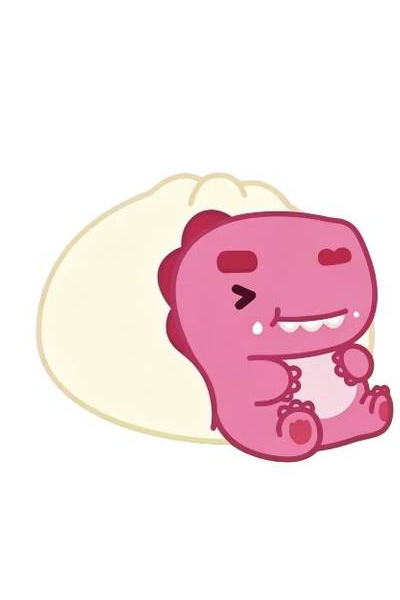
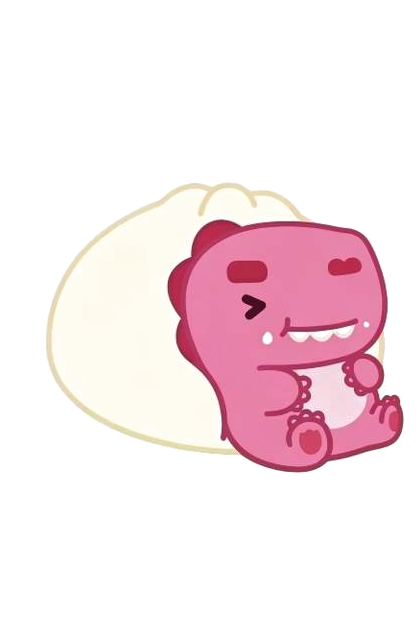
v3.2.0: 透明背景素龙 + 标题改名 + 更粉色调 + 饼图单条修复
- 素龙图片背景改为透明
- 标题'素龙记账'全部改为'记账本'
- 首页素龙调大上移，与标题行对齐
- 计划页两只素龙使用不同图片
- 修复只有一笔支出时饼图不显示的 bug
- 整体色调更粉，减少偏紫

diff --git a/index.html b/index.html
@@ -5,18 +5,18 @@
     <meta name="viewport" content="width=device-width, initial-scale=1.0, maximum-scale=1.0, user-scalable=no, viewport-fit=cover">
     <meta name="apple-mobile-web-app-capable" content="yes">
     <meta name="apple-mobile-web-app-status-bar-style" content="default">
-    <meta name="apple-mobile-web-app-title" content="素龙记账">
-    <meta name="theme-color" content="#d4a5a5">
-    <title>素龙记账</title>
+    <meta name="apple-mobile-web-app-title" content="记账本">
+    <meta name="theme-color" content="#e8a0a0">
+    <title>记账本</title>
     <style>
         *{margin:0;padding:0;box-sizing:border-box;-webkit-tap-highlight-color:transparent}
         :root{
-            --morandi-pink:#d4a5a5;--morandi-pink-deep:#b88a8a;--morandi-pink-light:#e8d0d0;
-            --morandi-green:#9bb8a6;--morandi-green-deep:#7d9e89;
-            --morandi-coral:#d4887a;--morandi-coral-deep:#b86f62;
-            --morandi-blue:#b8c5d6;--morandi-yellow:#e8d5a3;--morandi-purple:#c5b8d6;
-            --bg:#f7f2ef;--card-bg:#ffffff;--text-primary:#5a5551;--text-secondary:#8a8581;
-            --text-hint:#b5b0ab;--border:#ede8e5;
+            --morandi-pink:#e8a0a0;--morandi-pink-deep:#d47f7f;--morandi-pink-light:#f5d5d5;
+            --morandi-green:#a8c9a8;--morandi-green-deep:#8ab08a;
+            --morandi-coral:#e8948c;--morandi-coral-deep:#c97a72;
+            --morandi-blue:#e2c4d3;--morandi-yellow:#e8d5a3;--morandi-purple:#e8c4d1;
+            --bg:#fef6f6;--card-bg:#ffffff;--text-primary:#5d4f4f;--text-secondary:#9e8080;
+            --text-hint:#c2a8a8;--border:#f5e5e5;
             --shadow:0 4px 20px rgba(90,85,81,0.06);--radius:20px;
             --safe-top:env(safe-area-inset-top,0px);--safe-bottom:env(safe-area-inset-bottom,0px);
         }
@@ -27,7 +27,7 @@
         .header h1{font-size:22px;font-weight:700;margin-bottom:6px;position:relative;z-index:2}
         .lucky-quote{font-size:13px;opacity:0.92;position:relative;z-index:2;font-weight:500;display:flex;align-items:center;gap:6px;flex-wrap:wrap;max-width:90%}
         .lucky-quote .star{font-size:14px}
-        .dino-wrap{position:absolute;right:16px;bottom:12px;width:78px;height:78px;z-index:2;opacity:0.95}
+        .dino-wrap{position:absolute;right:10px;top:calc(16px + var(--safe-top));width:90px;height:90px;z-index:2;opacity:0.98}
         .month-selector{display:flex;align-items:center;justify-content:space-between;margin-top:18px;background:rgba(255,255,255,0.18);border-radius:14px;padding:10px 16px;position:relative;z-index:2;backdrop-filter:blur(4px)}
         .month-selector button{background:rgba(255,255,255,0.22);border:none;color:white;width:34px;height:34px;border-radius:50%;font-size:18px;cursor:pointer;display:flex;align-items:center;justify-content:center;transition:all 0.2s}
         .month-selector button:active{background:rgba(255,255,255,0.35);transform:scale(0.92)}
@@ -189,7 +189,7 @@
 
 <div id="page-home" class="page active">
     <div class="header">
-        <h1>🦖 素龙记账</h1>
+        <h1>📖 记账本</h1>
         <div class="lucky-quote" id="luckyQuote"><span class="star">✨</span><span id="quoteText">今日好运加载中...</span></div>
         <div class="dino-wrap" id="headerDino"></div>
         <div class="month-selector">
@@ -224,7 +224,7 @@
 
 <div id="page-plans" class="page">
     <div class="header">
-        <h1>🎯 存钱计划</h1>
+        <h1>🐷 存钱计划</h1>
         <div class="lucky-quote"><span class="star">🌟</span>慢慢存钱，慢慢变富</div>
         <div class="dino-wrap" id="planHeaderDino"></div>
     </div>
@@ -281,7 +281,7 @@
         </div>
         <div style="text-align:center;padding:24px;color:var(--text-hint);font-size:12px">
             <div id="footerDino" style="width:80px;height:80px;margin:0 auto 12px;opacity:0.95"></div>
-            素龙记账 · 愿你天天有钱花
+            记账本 · 愿你天天有钱花
         </div>
     </div>
 </div>
@@ -393,11 +393,12 @@ const SVG_ICONS = {
     cloud: '<svg viewBox="0 0 48 48" fill="none"><path d="M12 32c-3 0-6-2-6-6s3-6 6-6c0-4 3-7 8-7 4 0 7 2 8 6 1-1 2-1 3-1 4 0 7 3 7 7s-3 7-7 7H12z" fill="#b8c5d6" stroke="#5a5551" stroke-width="2" stroke-linejoin="round"/><circle cx="18" cy="28" r="1.5" fill="#5a5551"/><circle cx="26" cy="28" r="1.5" fill="#5a5551"/><path d="M16 32c2 1 4 1 6 0M24 32c2 1 4 1 6 0" stroke="#5a5551" stroke-width="1.5" stroke-linecap="round" fill="none"/><path d="M14 38l-1 3M20 38l-1 3M26 38v3M32 38l1 3" stroke="#b8c5d6" stroke-width="2" stroke-linecap="round"/></svg>',
     wand: '<svg viewBox="0 0 48 48" fill="none"><path d="M10 38L30 18l4 4L14 42l-4-4z" fill="#e8d5a3" stroke="#5a5551" stroke-width="2" stroke-linejoin="round"/><circle cx="32" cy="16" r="5" fill="#d4a5a5" stroke="#5a5551" stroke-width="2"/><path d="M32 6v3M32 23v3M22 16h3M39 16h3M25 9l2 2M37 23l2 2M39 9l-2 2M25 23l-2 2" stroke="#c5b8d6" stroke-width="2" stroke-linecap="round"/><circle cx="28" cy="12" r="1" fill="#e8d5a3"/><circle cx="38" cy="20" r="1" fill="#e8d5a3"/></svg>',
     // 素龙真实素材（从用户提供的图片裁剪）
+    dino: '<img src="assets/sulong_chef.png" alt="素龙" style="width:100%;height:100%;object-fit:contain;filter:drop-shadow(0 3px 6px rgba(237,107,138,0.25))">',
     dinoHappy: '<img src="assets/sulong_wave.png" alt="素龙" style="width:100%;height:100%;object-fit:contain;filter:drop-shadow(0 3px 6px rgba(237,107,138,0.25))">',
     dinoPiggy: '<img src="assets/sulong_bao.png" alt="素龙" style="width:100%;height:100%;object-fit:contain;filter:drop-shadow(0 3px 6px rgba(237,107,138,0.25))">',
     dinoSleep: '<img src="assets/sulong_drink.png" alt="素龙" style="width:100%;height:100%;object-fit:contain;filter:drop-shadow(0 3px 6px rgba(237,107,138,0.25))">',
     dinoEmpty: '<img src="assets/sulong_plane.png" alt="素龙" style="width:100%;height:100%;object-fit:contain;opacity:0.9">',
-    dino2: '<img src="assets/sulong_bao.png" alt="素龙" style="width:100%;height:100%;object-fit:contain;filter:drop-shadow(0 3px 6px rgba(237,107,138,0.25))">',
+    dino2: '<img src="assets/sulong_a1.png" alt="素龙" style="width:100%;height:100%;object-fit:contain;filter:drop-shadow(0 3px 6px rgba(237,107,138,0.25))">',
 };
 
 // ============ 好运语录（每日轮换）============
@@ -483,7 +484,7 @@ function getCategoryIcon(name, type) {
 }
 
 // ============ 莫兰迪色板（饼图用）============
-const MORANDI_COLORS = ['#d4a5a5', '#9bb8a6', '#d4887a', '#b8c5d6', '#e8d5a3', '#c5b8d6', '#b88a8a', '#7d9e89', '#a3b8d4', '#d4b8a5'];
+const MORANDI_COLORS = ['#e8a0a0', '#f0c4c4', '#e8948c', '#f5d5a5', '#f0d0a8', '#e8c4d1', '#d4a0a0', '#b8d4b8', '#f0b8a8', '#e0c8c8'];
 
 // ============ 好运语录渲染（每日轮换）============
 function renderLuckyQuote() {
@@ -662,19 +663,27 @@ function renderDonutChart(data, total) {
     data.forEach(function(d, i) {
         var color = MORANDI_COLORS[i % MORANDI_COLORS.length];
         var sweep = (d.value / total) * Math.PI * 2;
-        var x1 = cx + r * Math.cos(angle);
-        var y1 = cy + r * Math.sin(angle);
-        var x2 = cx + r * Math.cos(angle + sweep);
-        var y2 = cy + r * Math.sin(angle + sweep);
-        var x3 = cx + rInner * Math.cos(angle + sweep);
-        var y3 = cy + rInner * Math.sin(angle + sweep);
-        var x4 = cx + rInner * Math.cos(angle);
-        var y4 = cy + rInner * Math.sin(angle);
-        var large = sweep > Math.PI ? 1 : 0;
-        paths += '<path d="M' + x1 + ' ' + y1 + ' A' + r + ' ' + r + ' 0 ' + large + ' 1 ' + x2 + ' ' + y2 + ' L' + x3 + ' ' + y3 + ' A' + rInner + ' ' + rInner + ' 0 ' + large + ' 0 ' + x4 + ' ' + y4 + ' Z" fill="' + color + '" stroke="white" stroke-width="2"/>';
+        // 当只有一笔且等于总和时，sweep 接近 2PI，单条 path 会退化，拆成两段
+        if (sweep > Math.PI * 1.99) {
+            paths += donutSegment(cx, cy, r, rInner, angle, angle + Math.PI, color, 1);
+            paths += donutSegment(cx, cy, r, rInner, angle + Math.PI, angle + sweep, color, 1);
+        } else {
+            paths += donutSegment(cx, cy, r, rInner, angle, angle + sweep, color, sweep > Math.PI ? 1 : 0);
+        }
         angle += sweep;
     });
     return '<svg viewBox="0 0 170 170" style="width:100%;height:100%">' + paths + '</svg>';
+}
+function donutSegment(cx, cy, r, rInner, start, end, color, large) {
+    var x1 = cx + r * Math.cos(start);
+    var y1 = cy + r * Math.sin(start);
+    var x2 = cx + r * Math.cos(end);
+    var y2 = cy + r * Math.sin(end);
+    var x3 = cx + rInner * Math.cos(end);
+    var y3 = cy + rInner * Math.sin(end);
+    var x4 = cx + rInner * Math.cos(start);
+    var y4 = cy + rInner * Math.sin(start);
+    return '<path d="M' + x1 + ' ' + y1 + ' A' + r + ' ' + r + ' 0 ' + large + ' 1 ' + x2 + ' ' + y2 + ' L' + x3 + ' ' + y3 + ' A' + rInner + ' ' + rInner + ' 0 ' + large + ' 0 ' + x4 + ' ' + y4 + ' Z" fill="' + color + '" stroke="white" stroke-width="2"/>';
 }
 
 // ============ 记录列表渲染 ============
